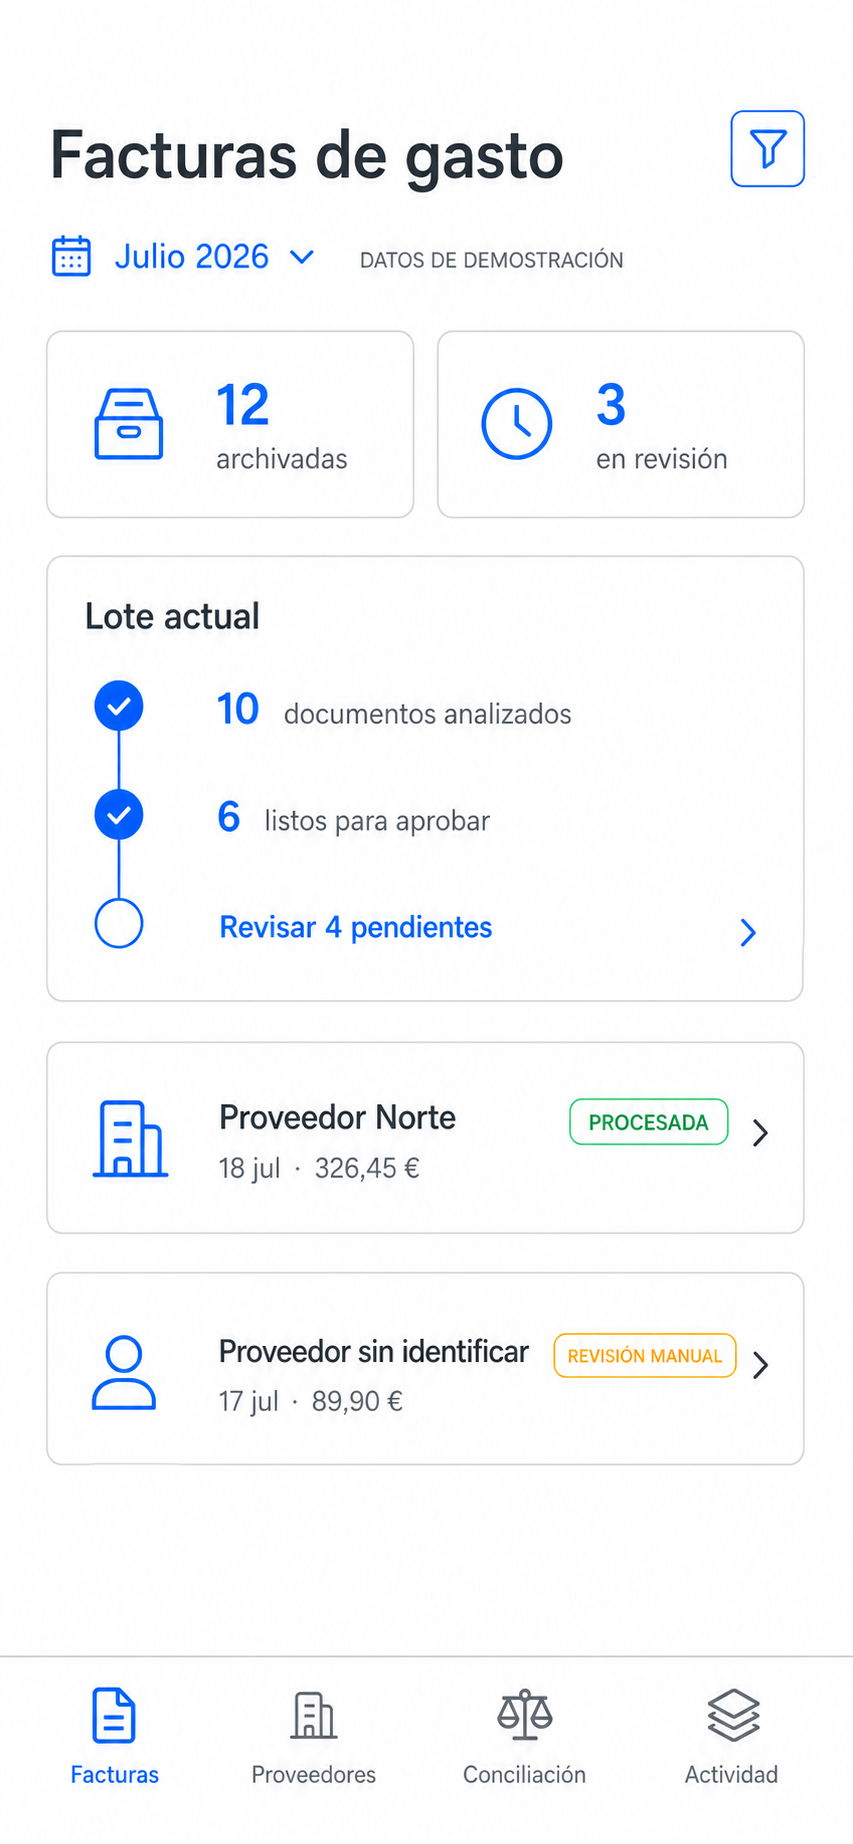
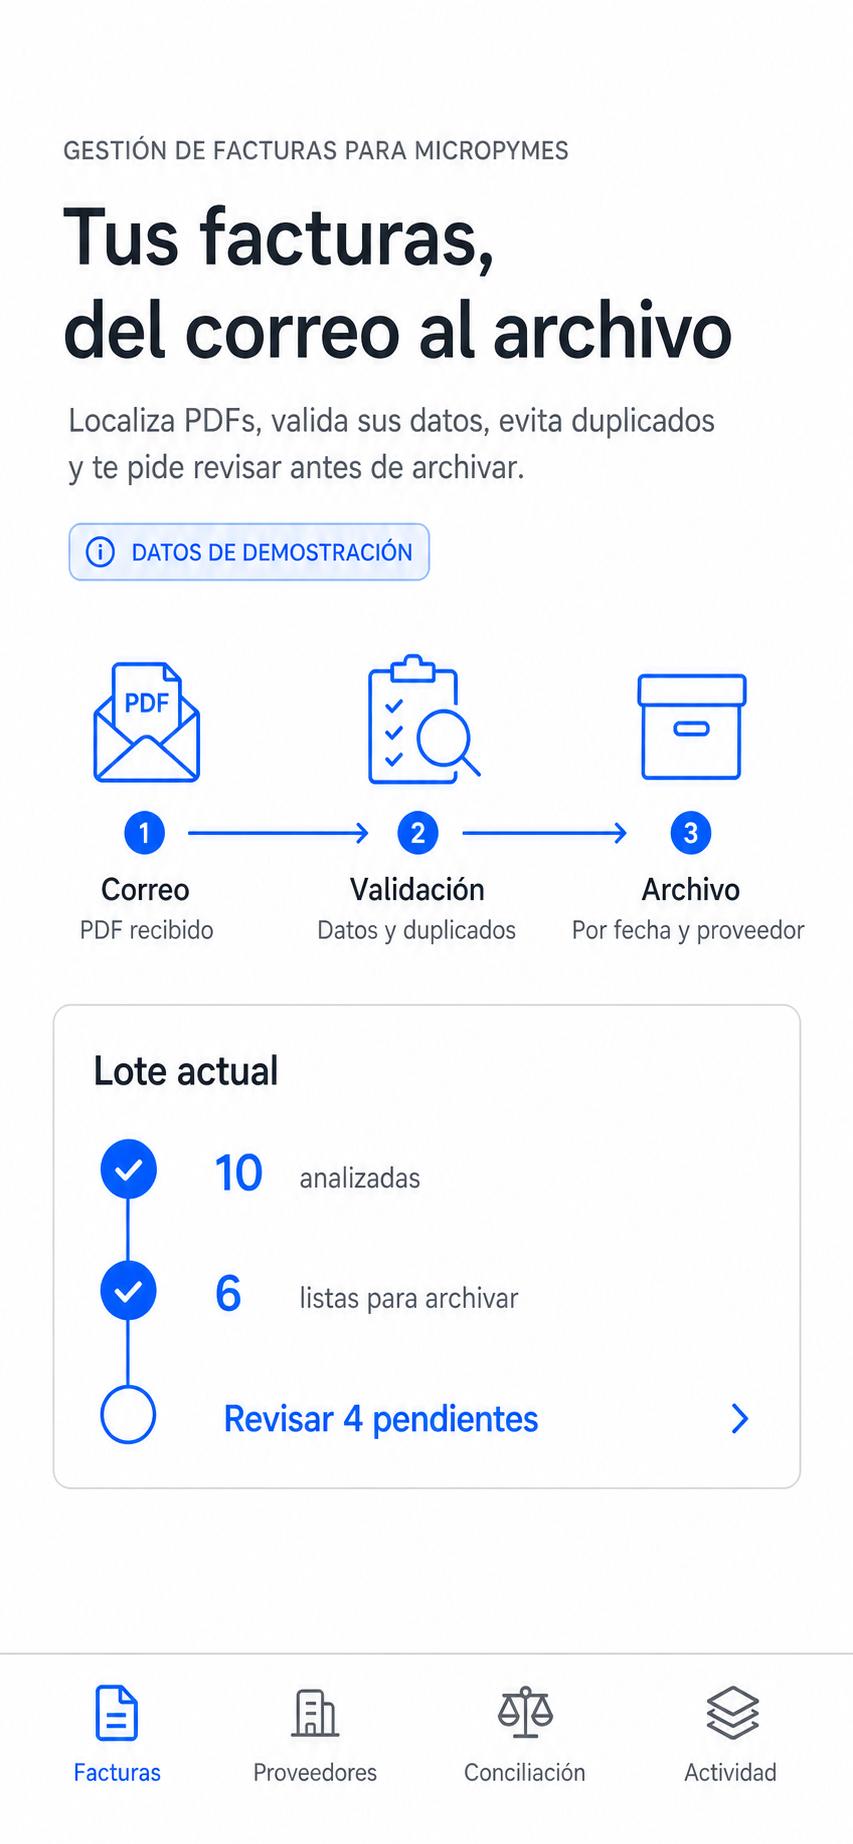
docs: rediseñar pantalla estrella explicativa

diff --git a/ENTREGA_SPRINT_2.md b/ENTREGA_SPRINT_2.md
@@ -8,7 +8,7 @@ Diseñar con IA las pantallas móviles mínimas que explican el valor principal 
 
 ### 1. Dashboard · pantalla estrella ⭐
 
-El responsable ve de un vistazo el estado del lote, las facturas archivadas y las revisiones pendientes, y entra directamente en el trabajo prioritario.
+Una persona que llega por primera vez entiende que la app localiza facturas PDF en el correo, valida sus datos y duplicados, pide revisión humana cuando hay dudas y las archiva por fecha y proveedor.
 
 ![Dashboard de facturas](diseño/01_dashboard_facturas_pantalla_estrella.png)
 
@@ -33,7 +33,7 @@ El responsable comprueba el reparto por estados, el destino de archivo y el núm
 ## Decisiones de alcance
 
 - Se entregan cuatro pantallas verticales y táctiles, el máximo recomendado por el reto.
-- El dashboard es la pantalla estrella porque resume el propósito y conduce a la acción principal.
+- El dashboard es la pantalla estrella porque explica en menos de cinco segundos qué entra, qué valida la app, dónde interviene una persona y cómo queda organizado el archivo, sin dejar de conducir al trabajo pendiente.
 - Proveedores, métricas, conciliación e historial quedan fuera de esta entrega visual mínima.
 - El Sprint 2 contiene imágenes y reglas de diseño, no una aplicación funcional.
 - `DESIGN.md` fija el nombre, los colores, la tipografía y los patrones que deberán reutilizarse en el siguiente sprint.

diff --git a/DESIGN.md b/DESIGN.md
@@ -18,7 +18,7 @@
 
 ## Pantallas seleccionadas
 
-1. **Facturas de gasto**: dashboard y pantalla estrella del flujo.
+1. **Facturas de gasto**: dashboard explicativo y pantalla estrella; comunica de inmediato que la app localiza facturas PDF en el correo, valida sus datos y duplicados, solicita revisión humana y las archiva por fecha y proveedor.
 2. **Revisión manual**: bandeja de documentos que requieren intervención.
 3. **Detalle de factura**: contraste de evidencia y validación de campos.
 4. **Aprobar lote**: confirmación segura antes del archivo masivo.
